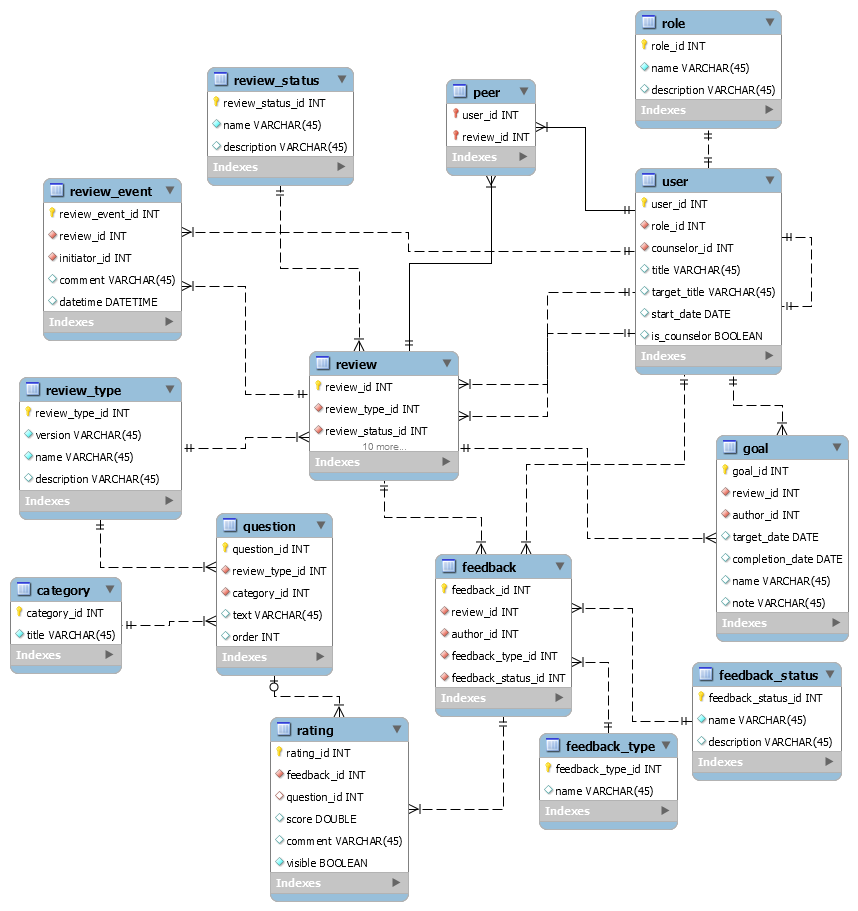
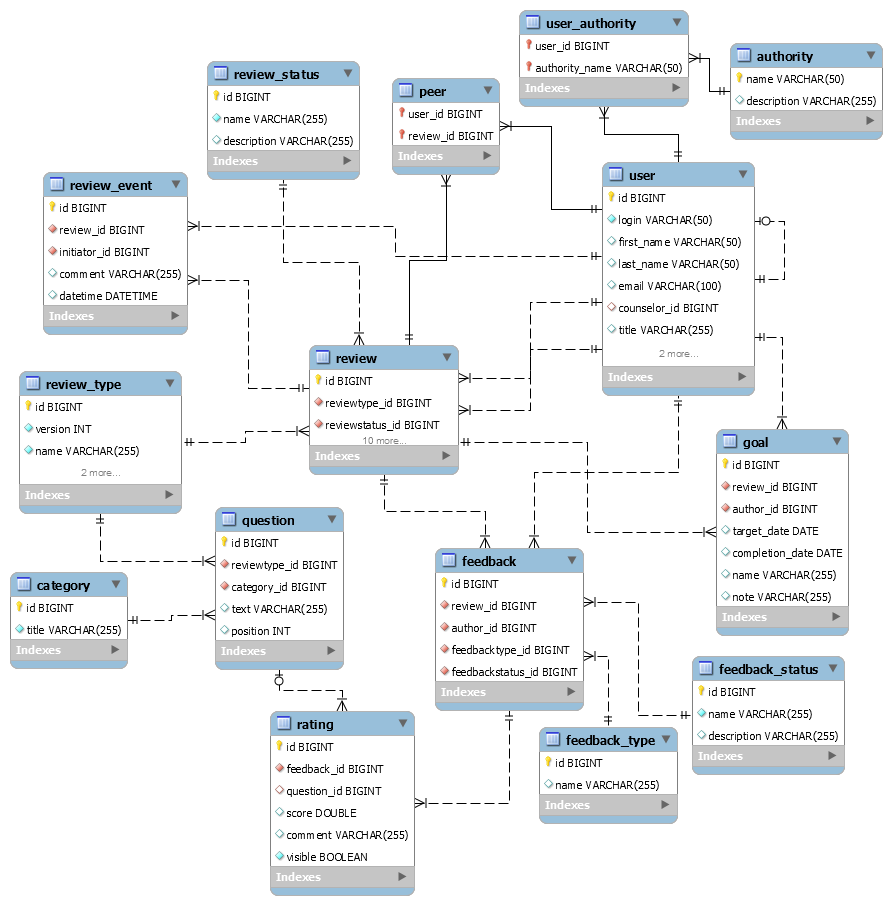
Update er-diagram and fix misspelling of counselor

diff --git a/ent-talent-mgmt/src/main/java/com/perficient/etm/security/AuthoritiesConstants.java b/ent-talent-mgmt/src/main/java/com/perficient/etm/security/AuthoritiesConstants.java
@@ -12,7 +12,7 @@ public final class AuthoritiesConstants {
 
     public static final String ANONYMOUS = "ROLE_ANONYMOUS";
     
-    public static final String COUNCELOR = "ROLE_COUNCELOR";
+    public static final String COUNSELOR = "ROLE_COUNSELOR";
     
     public static final String GENERAL_MANAGER = "ROLE_GENERAL_MANAGER";
     
